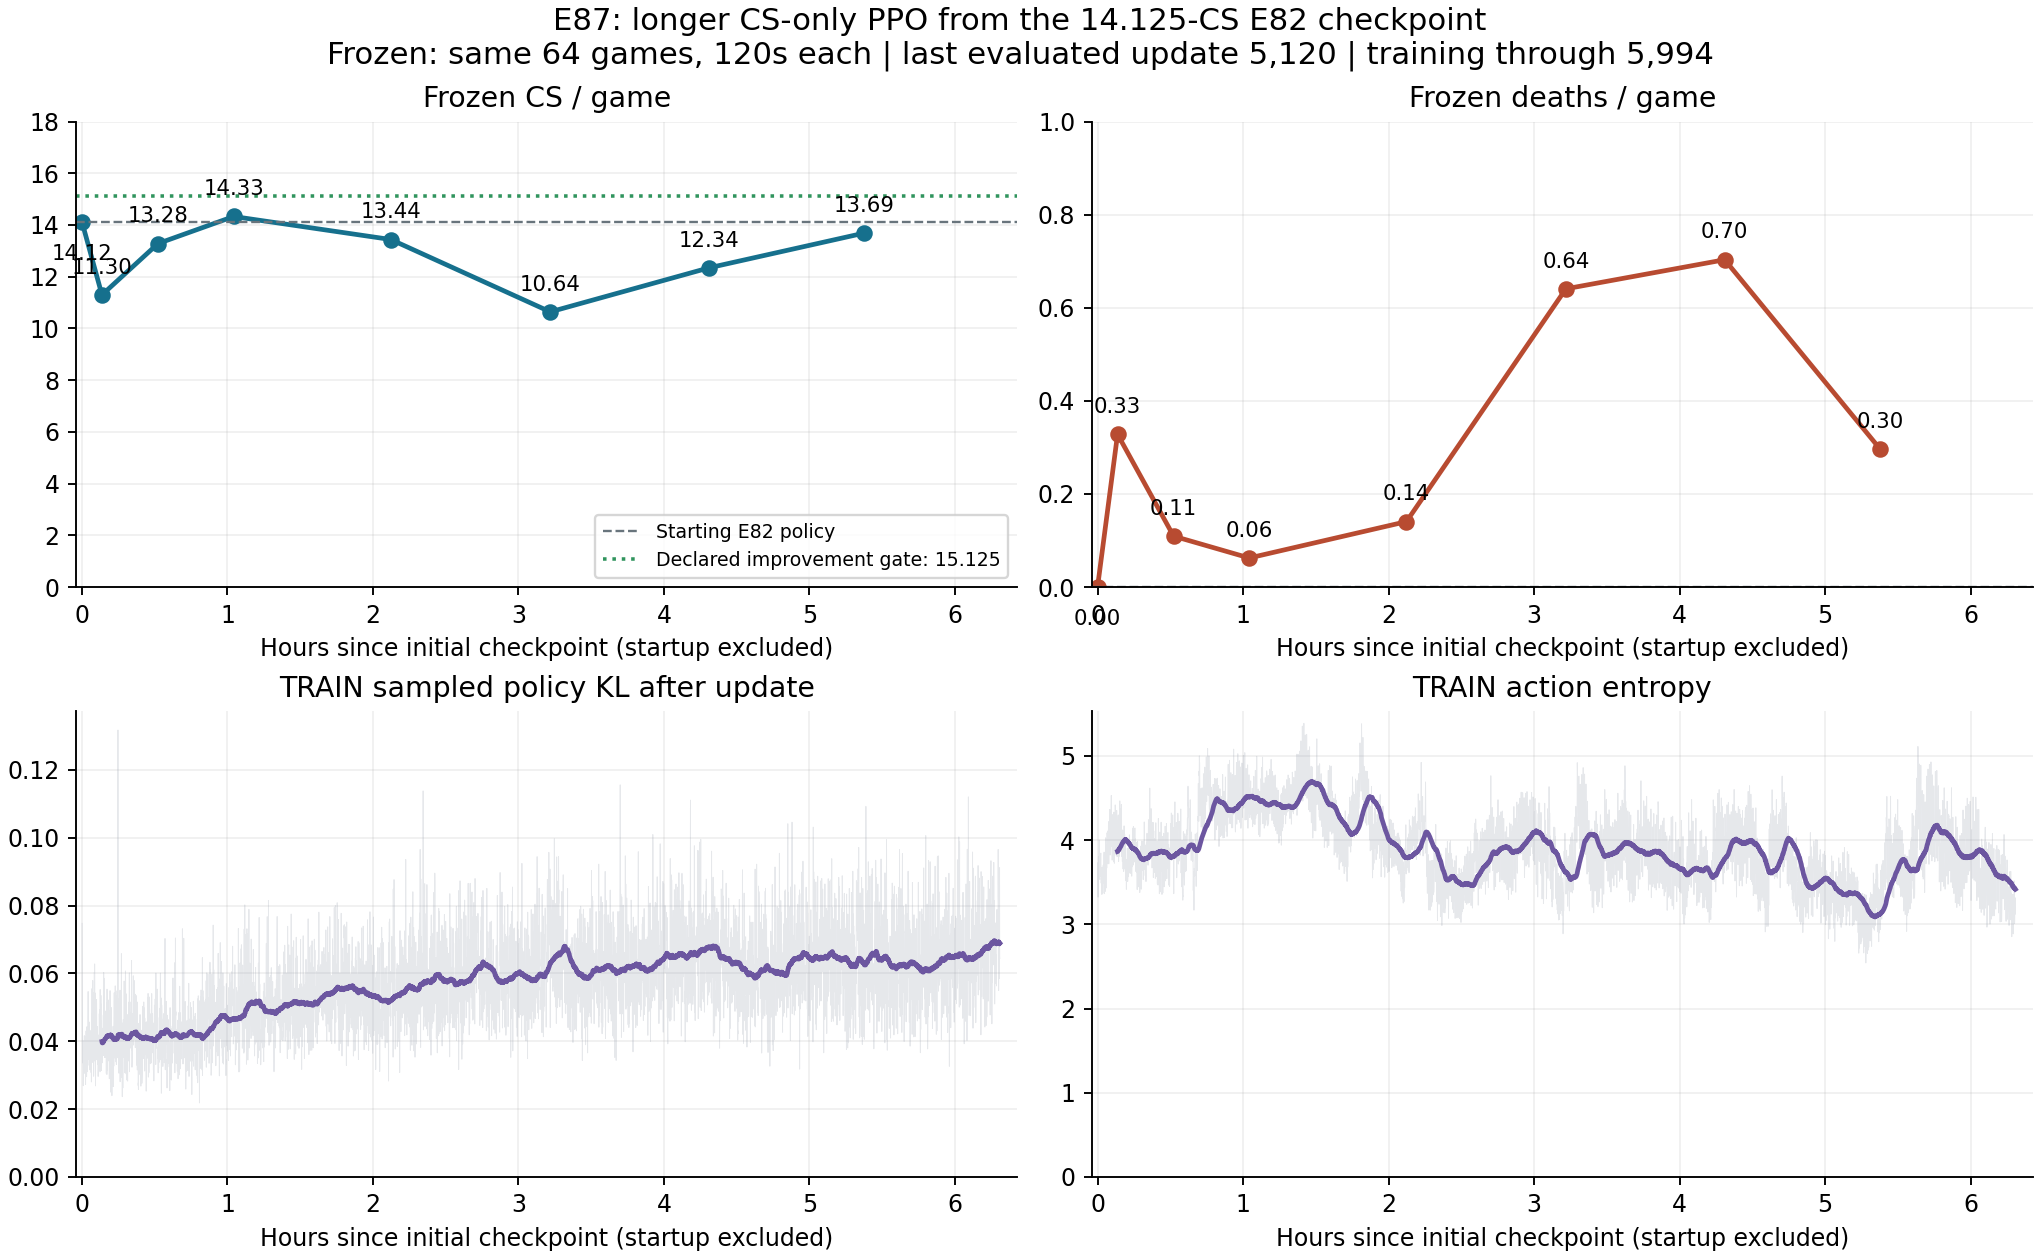
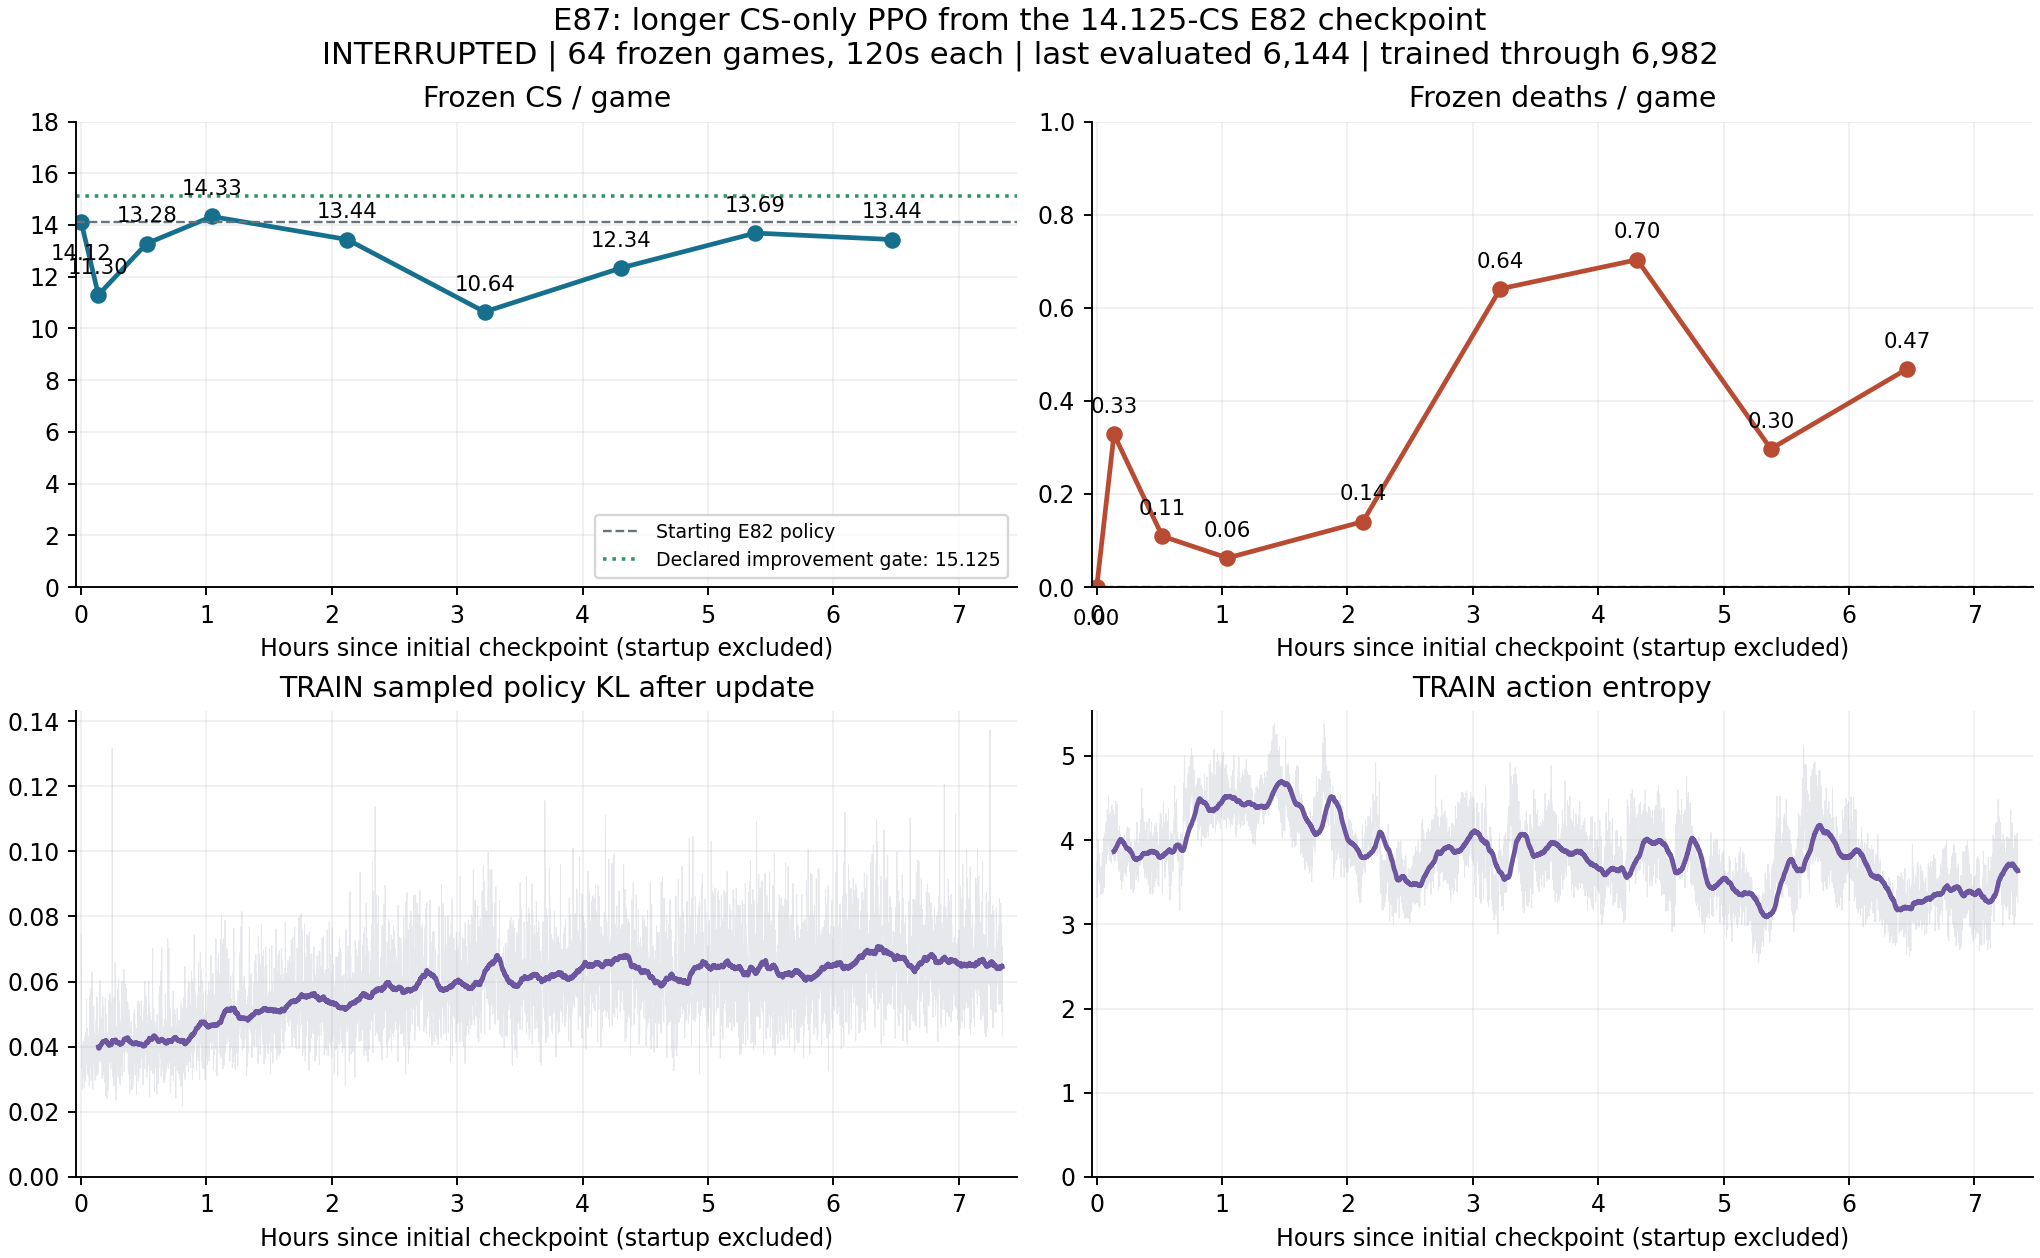
Record E87 cancellation, retained checkpoints and final available evaluations

diff --git a/ops/figures/afk_checkpoint_history.py b/ops/figures/afk_checkpoint_history.py
@@ -79,6 +79,7 @@ def main():
     current = next(a for a in arms if a[0] == "E87")
     run = current[2].parent
     manifest = json.loads((run / "manifest.json").read_text())
+    run_status = manifest.get("results", {}).get("status", "running")
     metrics = read_rows(run / "metrics.jsonl")
     checkpoints = sorted(manifest["checkpoints"], key=lambda c: c["update"])
     cu = np.array([c["update"] for c in checkpoints])
@@ -119,8 +120,8 @@ def main():
         ax.set(xlabel="Hours since initial checkpoint (startup excluded)", xlim=(-.04, tx[-1] + .12))
         ax.grid(alpha=.18)
     fig.suptitle("E87: longer CS-only PPO from the 14.125-CS E82 checkpoint\n"
-                 f"Frozen: same 64 games, 120s each | last evaluated update {rows[-1]['update']:,} | "
-                 f"training through {metrics[-1]['update']:,}", fontsize=13)
+                 f"{run_status.upper()} | 64 frozen games, 120s each | last evaluated {rows[-1]['update']:,} | "
+                 f"trained through {metrics[-1]['update']:,}", fontsize=13)
     fig.savefig(args.out / "E87_training_curve.png", dpi=170)
     plt.close(fig)
 
@@ -158,7 +159,7 @@ def main():
                       "Same metric; rewards, inputs and budgets vary.\n"
                       "Dashed line = that arm's starting score.\n\n"
                       "E83 shows full-wave transfer, not local-task CS.\n"
-                      "E80 was cancelled; E87 is still running.\n"
+                      f"E80 was cancelled; E87 status: {run_status}.\n"
                       "Saved but unevaluated weights have no score.\n"
                       "One training seed per arm; no across-seed CI.\n\n"
                       f"Snapshot: {snapshot}", va="top", fontsize=9, linespacing=1.6)
@@ -168,7 +169,7 @@ def main():
     fig.savefig(args.out / "afk_checkpoint_history.png", dpi=170)
     plt.close(fig)
     with (args.out / "afk_checkpoint_history.csv").open("w", newline="") as f:
-        writer = csv.DictWriter(f, fieldnames=list(csv_rows[0]))
+        writer = csv.DictWriter(f, fieldnames=list(csv_rows[0]), lineterminator="\n")
         writer.writeheader()
         writer.writerows(csv_rows)
     print(json.dumps(dict(snapshot_utc=snapshot, arms=len(arms), points=point_count,

diff --git a/STATUS.md b/STATUS.md
@@ -6,16 +6,22 @@ Teaching on full waves improved the earlier10.0CS policy to11.75; subsequent
 CS-only PPO improved it to14.125. This is evidence of learning with the existing
 observations/GRU/clicks, not perfect CS or an isolated explanation of the plateau.
 
-**Oct2 8:22AM PDT discussion/curve snapshot:** E87 remains running. Frozen64 CS at
-updates0/128/512/1024/2048/3072/4096/5120 is
-14.125/11.296875/13.28125/14.328125/13.4375/10.640625/12.34375/13.6875.
-Latest evaluated weights have83.886M additional decisions; latest plotted train
-update5994 has98.206M. No sustained improvement yet; best intermediate+0.203125
-is not an endpoint success. Deaths grow from0 to.640625/.703125 during the late
-regression, then.296875 at5120. E87 initial reference equality passed; through
-the inspected5986metrics no nonfinite loss and reward exactly equals CS.
+**Oct2 9:24AM PDT terminal review:** E87/2186 CANCELLED by UID1000, ExitCode0:0,
+after7h29m22s. Worker handled the interruption and saved update6982;
+114,393,088additional decisions, versus planned8192/134,217,728.
+Cancellation reason beyond the recorded UID is not established. No learner
+exception/nonfinite failure observed; this was not the scheduled time limit.
+Frozen64 CS at updates0/128/512/1024/2048/3072/4096/5120/6144 is
+14.125/11.296875/13.28125/14.328125/13.4375/10.640625/12.34375/13.6875/13.4375.
+Latest evaluated weights have100.663M additional decisions; saved update6982
+has no frozen evaluation. Latest deaths.46875/game, personal towerHP2.55924;
+paired CS change−.6875 (27better/8equal/29worse) versus initialization.
+No sustained gain observed; best intermediate+0.203125 is not endpoint success.
+Planned8192primary/retention and final-three secondary gates were not completed.
+Initial exact E82 equality passed; all6982updates have finite core learner
+metrics and literal reward=CS, every other logged reward component zero.
 Curves: `docs/figures/E87_training_curve.png` and `afk_checkpoint_history.png`;
-CSV retains81frozen evaluations across22training arms, including repeated starts.
+CSV retains82frozen evaluations across22training arms, including repeated starts.
 History separates different setups; saved but unevaluated weights have no score.
 
 Current recommendation is discussion, not a newly submitted study: establish a
@@ -29,7 +35,7 @@ An independent simple policy-gradient reference on the same small task would
 help distinguish our PPO implementation from task/interface difficulty. Rising
 sampled post-update KL (~.040 early,~.064 late) and behavioral regressions make
 update stability worth a controlled comparison, not proof LR is too high.
-No new training or alteration of E87 from this discussion.
+No new training submitted. Do not automatically restart cancelled E87.
 
 E83's short-task curriculum improved local PPO farming but badly regressed
 normal farming. Do not promote either E83 checkpoint or call it a timing fix.
@@ -44,31 +50,23 @@ results; if undecided, use the requested20circular movement choices plus visible
 target interface. This authorizes successive experiments after completion wakes;
 the event alone need not supply new authorization. Do not revive cancelled E80.
 
-**Running: E87_afk_long_continuation / Slurm2186**, submitted2026-10-02T08:54:42UTC
-(~1:55AM PDT), sourcef53965c. Started2026-10-02T08:54:54UTC (**1:54:54AM PDT**). All17integrated tests passed
-(16base in367.52s,1stagger warmup in79.85s); launcher reports healthy after180s.
-Scenario calibration, stagger warmup and exact initial E82 reference passed.
-Current frozen results are above. No other RL job queued.
-Revised expected stop **about10:30–10:40AM PDT** (~2h10remaining at8:22AM),
-Slurm hard cutoff **10:39:54AM PDT**. Recent updates take~3.79s versus the3.53s
-planning estimate;8192may not fit the worker time cap. An early stop is an
-incomplete planned endpoint, even if the process exits0; keep saved weights.
-Worker also has8h30relative and10:50AM PDT absolute bounds.
+**No running or queued AFK RL jobs.** E87_afk_long_continuation / Slurm2186 ended
+2026-10-02T16:24:16UTC (**9:24:16AM PDT**), CANCELLED by1000/0:0; batch finished
+cleanly at16:24:20UTC. Sourcef53965c, started08:54:54UTC. All17startup tests and
+required180s watch passed. Log records cancellation then PROFILE COMPLETE;
+study and manifest correctly say interrupted. No restart or replacement queued.
+The queued modern-world benchmark belongs to the separate modern-simulator
+workstream; leave it and unrelated jobs untouched.
 
-**Completion bridge:** lanerl-event-2186.service active/registered, pending delivery,
-expiry2026-10-02T19:02:47.112UTC (**12:02:47PM PDT**), bounded10h lifetime includes
-queue/delivery margin. Heartbeat advanced1790931767.5958192→1790931887.98177;
-on the user-requested curve check checked_at1790954253.007447, stateRUNNING,
-service active and registry present. Do not actively poll training.
-On wake: inspect `/mnt/nfs/shared/slurm-events/2186/result.json`, Slurm State AND
-ExitCode, `/mnt/nfs/shared/E87_afk_long_continuation-2186.out`, and
-`/mnt/nfs/checkpoints/lanerl-jax/E87_afk_long_continuation/study.json` for exact run
-path. Review actual budget/checkpoints, initial trajectory equality, all frozen
-scores including final8192, finite learner diagnostics and literal reward=CS.
-Distinguish an interrupted budget/missing final evaluation from completion, even
-if process exit0. Report paired final differences and primary/secondary gates;
-update existing ledgers/STATUS and verify service/registry cleanup. Preserve final
-and intermediate checkpoints. No automatic extension beyond the overnight window.
+**Completion bridge cleaned:** delivery accepted2026-10-02T16:24:19.735UTC;
+lanerl-event-2186.service inactive/dead, Resultsuccess, REGISTRY entry absent.
+`/mnt/nfs/shared/slurm-events/2186/result.json` records terminal accounting.
+No further watcher needed. All149manifest checkpoint records point to existing
+files. Final `ckpt_114393088.msgpack` and `ckpt_latest.msgpack` both83,083,080bytes,
+SHA256 d76ff8fdd995719cec58b9b8965253d040aa84d6a031f657c74f7bb0e55f0e5e.
+Run: `/mnt/nfs/checkpoints/lanerl-jax/E87_afk_long_continuation/vec-s0-20261002-090325-f53965ce/`.
+Preserve final/intermediate checkpoints. Final6982performance is unknown;
+6144is the last frozen score. No8192endpoint or final-three gate claim.
 
 E86b/2185
 COMPLETED0:0 in5m05s, ended2026-10-02T08:48:59UTC (**1:48:59AM PDT**).
@@ -88,7 +86,7 @@ recovery-case representative clicks increase under all standard updates with
 complete GRU prefixes replayed at new weights. Two batches/two such cases are
 limited evidence, not a guarantee of correct credit or efficient optimal farming.
 
-**Selected long run: E87_afk_long_continuation**, submitted as2186 above.
+**Interrupted long-run protocol: E87_afk_long_continuation**, was2186 above.
 E82final/freshAdam, unchanged CS-only full-wave PPO and LR1e-4;8192updates/
 134,217,728additional decisions. Checkpoint every50updates (~3min); frozen64 at
 0/128/512, then every1024through8192. Initial trajectories must equal E82final.
@@ -103,8 +101,9 @@ learning settings fixed and resolve whether longer exposure improves this strong
 endpoint. The20direction/visible-target proposal remains a possible later study,
 not a demonstrated fix. Missing information/longer action sequences remain open;
 only2E85recovery cases cannot support a credible held-out feature comparison.
-This completes the requested diagnostic bundle to its stated limits; spend the
-remaining window on the explicitly authorized long run, not broad new probes.
+The diagnostic bundle and interrupted long-run evidence are recorded. Further
+diagnostic recommendations remain discussion; this cancellation wake starts no
+new experiment or automatic extension of the overnight window.
 
 E86/2184 FAILED5:0 in2m14s,
 ended2026-10-02T08:41:08UTC (1:41:08AM PDT), before the worker ran.

diff --git a/docs/JAX_FIDELITY_LEDGER.md b/docs/JAX_FIDELITY_LEDGER.md
@@ -1602,3 +1602,9 @@ optimality or information sufficiency from the continuation alone.
 | LEARN-AFK-42 plotting and remaining budget | TOOL ops/figures/afk_checkpoint_history.py; current-run PNG includes frozen CS/deaths and explicitly TRAIN sampled KL/entropy, hours from checkpoint timestamps. History PNG/CSV contains81full120s AFK evaluations across22arms, no duplicate E81export, teacher or synthetic short-task scores; E83 plotted only for full-wave transfer. All64games/point, one training seed/arm; different inputs/rewards/budgets remain separate panels. | Plots generated under capped login CPU and visually inspected. Current median~3.79s/update versus3.53planned makes8192marginal beyond8h30worker cap; revised stop~10:30–10:40AM PDT, hard10:39:54. Run continues unchanged; no extension or new study. Bridge2186 service active/registry present, checked_at1790954253.007447, pending delivery. |
 
 | LEARN-AFK-42 expert-debugging discussion | Recommend a verified real-wave case bank: successful legal action-sequence replay first, then supervised overfit and closed-loop CS recovery using current observations/full GRU prefixes; then PPO on the identical cases, followed by held-out HP/timing/position perturbations and full-wave retention. A simple independent policy-gradient reference on that same task can distinguish implementation from shared task/interface difficulties. | E83 did not meet competent-teacher prerequisite in one stratum; E85 snapshots were not certified recoverable misses. Existing checks reduce suspicion of particular bugs, not all bugs. This is a proposed diagnostic progression, not a launched experiment or established cause. Small solvable tasks/implementation comparisons follow https://spinningup.openai.com/en/latest/spinningup/spinningup.html ; implementation sensitivity evidence https://arxiv.org/abs/2005.12729 . Specific case counts/thresholds/budgets await a concrete study. |
+
+| LEARN-AFK-42 cancelled terminal review | E87/2186 CANCELLED by1000,ExitCode0:0,elapsed7h29m22s,ended2026-10-02T16:24:16UTC /9:24:16AM PDT;batch COMPLETED0:0 at16:24:20. Log cancellation followed by PROFILE COMPLETE; study/manifest interrupted. Final saved6982updates/114,393,088decisions, not planned8192/134,217,728. No reported learner exception or nonfinite core metric in6982contiguous updates. Train reward exactly equals reward_cs; logged approach/death/XP terms zero. All9frozen cohorts literal reward=CS. | Cancellation before time cap; recorded UID does not establish the human/process or reason that requested it. Graceful saving/exit0 does not mean experiment completion. No frozen6982,7168or8192, so primary/retention endpoint and final-three gates remain incomplete. No automatic restart or replacement. |
+
+| LEARN-AFK-42 last available frozen result | Update6144 /100,663,296additional decisions:64games,13.4375CS,.46875deaths,2.559243personal towerHP. Versus initial14.125/0/0:paired CS−.6875,SE.475008,27better/8equal/29worse. Full frozen CS sequence at0/128/512/1024/2048/3072/4096/5120/6144:14.125/11.296875/13.28125/14.328125/13.4375/10.640625/12.34375/13.6875/13.4375. Final256TRAIN metrics mean sampledpostKL.0651103,entropy3.59615,EV.935557,gradnorm3.08658. | No sustained improvement observed in this partial long run; no proof longer training can never help or definitive root cause. Best intermediate14.328125 is not a substitute for a completed endpoint. Keep E82final as reference; final6982weights are preserved with unknown frozen performance. Updated curve/history includes82evaluations across22arms and terminal interrupted status. |
+
+| LEARN-AFK-42 artifacts and cleanup | All149manifest checkpoint records exist; final ckpt_114393088.msgpack and ckpt_latest.msgpack each83,083,080bytes and SHA256 d76ff8fdd995719cec58b9b8965253d040aa84d6a031f657c74f7bb0e55f0e5e. Run path /mnt/nfs/checkpoints/lanerl-jax/E87_afk_long_continuation/vec-s0-20261002-090325-f53965ce/. Bridge delivery accepted1790958259.7353082, terminal result JSON retained. | lanerl-event-2186.service inactive/dead,Resultsuccess; REGISTRY entry absent. No AFK RL job running/queued. Separate modern-world-bench2187 and unrelated pending service untouched. No new GPU work for this review; plots refreshed under capped CPU. |

diff --git a/docs/EXPERIMENTS.md b/docs/EXPERIMENTS.md
@@ -7,7 +7,7 @@ CS (changing weights) is labelled `train`; diagnostic scores are not transfer re
 
 | Run dir (under `lanerl_jax/runs/`) | Date | Engine | Task | Learner | Budget | Result | Verdict |
 |---|---|---|---|---|---|---|---|
-| `E87_afk_long_continuation` |10-02| Long CS-only full-wave PPO | E82final14.125CS,freshAdam,unchanged observations/actions/reward |128x128,4epochs,constantLR1e-4,entropy.001,staggered120s |8192updates/134.218M;8h30worker/8h45Slurm;absolute17:50UTCcutoff | RUNNING2186 at8:22AM PDT;train5994;frozen5120=13.6875CS/.296875deaths;peak1024=14.328125,low3072=10.640625;initial equality passed;bridge active;revised stop~10:30–10:40AM PDT,budget may stop before8192 | No sustained gain yet;final>=15.125CS remains pending, no intermediate selection;checkpoints50updates,frozen0/128/512/every1024;LEARN-AFK-42 |
+| `E87_afk_long_continuation` |10-02| Long CS-only full-wave PPO | E82final14.125CS,freshAdam,unchanged observations/actions/reward |128x128,4epochs,constantLR1e-4,entropy.001,staggered120s |Planned8192/134.218M;actual6982/114.393M;8h30worker/8h45Slurm | CANCELLED2186 by1000/0:0,7h29m22s,9:24AM PDT;clean final save6982,unevaluated;latest frozen6144=13.4375CS/.46875deaths/2.55924towerHP;bridge cleaned | No sustained gain across9frozen points;8192primary/retention and final-three gates incomplete;all6982updates finite/literalCSreward;E82 remains reference;LEARN-AFK-42 |
 | `E86b_afk_optimizer_audit` |10-02| E86 wrapper retry | Same two real E82 batches and E85 full prefixes |Same standard/actor-only clip, fresh/restored Adam |20minworker/30minSlurm; no export | COMPLETED2185/0:0,5m05s;bothbatches/fresh+restored;bridge cleaned | Exact production reproduction;value-head norm share<1%,actorclipscale +.13–.44%;no material suppression established. Both E85 recovery clicks increased under standard updates; LEARN-AFK-41 |
 | `E86_afk_optimizer_audit` |10-02| Matched on-policy optimizer diagnosis | E82final,two128x128full-wave batches |Standard globalclip vs actor-only norm; fresh and restored Adam, production equivalence; E85 full-prefix click readout |20minworker/30minSlurm; no policy export | FAILED2184/5:0,2m14s before probe;8JAXtests pass, optional Torch module skipped/exit5; no bridge | No optimizer result. Retry E86b; compare actual module steps/KL/action probability; raw gradient clipping alone is not a farming defect; LEARN-AFK-41 |
 | `E85_afk_action_search` |10-02| Frozen real-wave action/credit diagnosis | E82final,32observed low-HP cases with complete GRU prefixes |20directions+12targets+normal buttons vs32sampled actions;2discovery/4validation seeds;single action and separate1s repeated click |45minworker/1hSlurm, no model export| COMPLETED2183/0:0,10m23s;32cases; bridge cleaned | Menu singleclick +.046875CS8s/+.0078125remaining;32sample alternative +.0625/+.0703125;repeat1s−.2734375/−.3828125.2/32pass versus>=8gate; no broad action-search signal; LEARN-AFK-40 |
